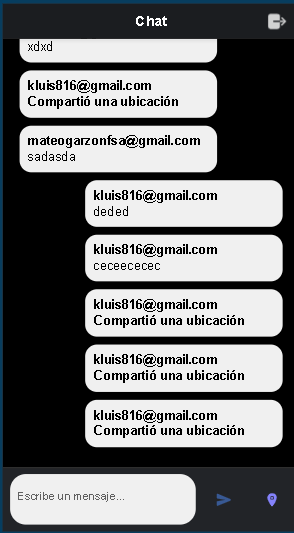
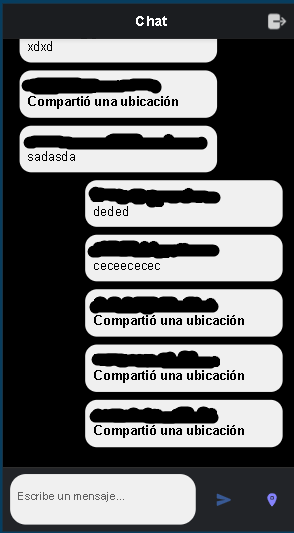
Modificacion img

diff --git a/README.md b/README.md
@@ -25,7 +25,7 @@ Basandonos en la [@guía](https://ionicframework.com/docs/native/geolocation) re
 
 ### Chat
 
-![chat](https://github.com/Kr-luis/Repaso_Ionic/blob/main/src/assets/Capturas/Chat.png?raw=true)
+![chat](https://github.com/Kr-luis/Repaso_Ionic/blob/main/src/assets/Capturas/Chat2.png?raw=true)
 
 ### Funcion de compartir ubicacion
 
